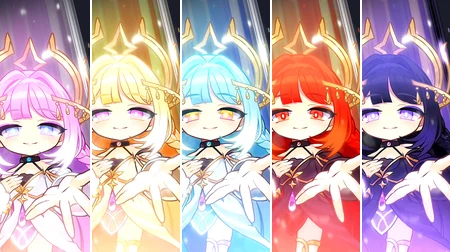
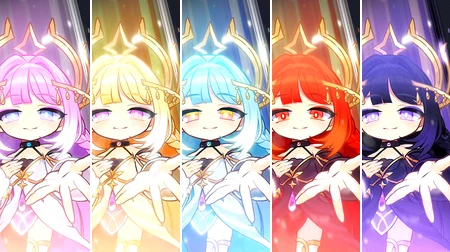
Shop: cheaper prices, an "Are you sure?" popup with the item's picture, and cleaner Helia pictures
Helia bundle 2,000, backgrounds 2,500, the moving background 5,000. Buying now asks first (green
Yes, red No, Esc or outside = No). The pink Helia lines up with the others in the bundle picture,
and the Win Effect pictures are see-through instead of on a dark box.

Claude-Session: https://claude.ai/code/session_01FmvgLsL6x8QsroXNAfcngk

diff --git a/fx.js b/fx.js
@@ -822,11 +822,11 @@ function openMeso(page = 1) {
 // adds it to your themes; buying an effect pack (effect: true) adds its win effects (see HECATE).
 const SHOP = {
   ...HOLIDAYS,   // holiday specials: in the shop only on their day
-  helia: { name: 'Sol Hecate: Helia', kind: 'Guess in 1 win effect (bundle)', price: 5000, always: true, effect: true,
+  helia: { name: 'Sol Hecate: Helia', kind: 'Guess in 1 win effect (bundle)', price: 2000, always: true, effect: true,
            img: 'images/fx/hecate/helia-bundle.webp' },
-  lucid: { name: 'Garden of Eternal Dream', kind: 'Moving background', price: 10000 },
-  lucidBloom: { name: 'Lucid in Bloom', kind: 'Background', price: 5000 },
-  lucidNight: { name: "Lucid's Starry Night", kind: 'Background', price: 5000 },
+  lucid: { name: 'Garden of Eternal Dream', kind: 'Moving background', price: 5000 },
+  lucidBloom: { name: 'Lucid in Bloom', kind: 'Background', price: 2500 },
+  lucidNight: { name: "Lucid's Starry Night", kind: 'Background', price: 2500 },
 };
 const shopOwned = (t) => (SHOP[t]?.effect ? ownedEffects() : ownedThemes()).includes(t);
 const SHOP_KEY = 'mapleWordle:shop';   // items found so far
@@ -866,11 +866,31 @@ function tooPoor(btn, it) {
   swap(fmt(it.price - mesoTotal()), true);
   setTimeout(() => swap(fmt(it.price), false), 2150);
 }
-function buy(t, btn) {
+// "Are you sure?" before buying: the item's picture, name and price, a green Yes and a red No (Esc / outside = No).
+function askBuy(t) {
+  const it = SHOP[t];
+  return new Promise((done) => {
+    const win = document.createElement('div');
+    win.className = 'popup buyask';
+    win.innerHTML = '<div class="panel"><h2>Are you sure you want to purchase?</h2>' +
+      `<span class="themepic" style="background-image:url('${it.img ?? THEME_IMG[t]}')"></span><b class="buyname">${it.name}</b>` +
+      `<span class="price"><img src="images/fx/meso-gold.png" alt=""> <span>${fmt(it.price)}</span></span>` +
+      '<p class="buybtns"><button class="yes">Yes</button><button class="no">No</button></p></div>';
+    const close = (ok) => { win.remove(); removeEventListener('keydown', esc, true); done(ok); };
+    const esc = (e) => { if (e.key === 'Escape') { e.stopImmediatePropagation(); close(false); } };   // only this popup, the shop stays open
+    win.querySelector('.yes').addEventListener('click', () => close(true));
+    win.querySelector('.no').addEventListener('click', () => close(false));
+    win.addEventListener('click', (e) => { if (e.target === win) close(false); });
+    addEventListener('keydown', esc, true);
+    document.body.appendChild(win);
+    win.querySelector('.yes').focus();
+  });
+}
+async function buy(t, btn) {
   const it = SHOP[t];
   if (!it || shopOwned(t)) return;
   if (mesoTotal() < it.price) return btn && tooPoor(btn, it);
-  if (!confirm(`Buy ${it.name} for ${fmt(it.price)} mesos?`)) return;
+  if (!await askBuy(t) || shopOwned(t) || mesoTotal() < it.price) return;
   const log = mesoLog();
   log.push({ key: `shop:${t}`, mode: 'shop', day: Math.floor(Date.now() / 86400000), what: `Bought ${it.name}`, amount: -it.price });
   lsSet(MESO_LOG_KEY, JSON.stringify(log));

diff --git a/style.css b/style.css
@@ -382,6 +382,20 @@ body.glitch .game.glow.diamond { animation: glitchslice 2.3s steps(1) infinite, 
 .popup[hidden] { display: none; }
 .popup .panel { margin-top: 48px; max-height: calc(100vh - 96px); overflow-y: auto; min-width: 280px; scrollbar-width: none; }
 .popup .panel::-webkit-scrollbar { display: none; }
+/* Shop: "Are you sure you want to purchase?" (fx.js askBuy), over the shop window */
+.popup.buyask { z-index: 5; align-items: center; }
+.buyask .panel { margin-top: 0; display: flex; flex-direction: column; align-items: center; gap: 8px; max-width: 340px; }
+.buyask h2 { font-size: 20px; margin: 0 0 4px; }
+.buyask .themepic { width: 224px; height: 126px; border: 1px solid rgba(0, 0, 0, 0.2); }
+.buyask .buyname { font-size: 17px; }
+.buyask .price { display: flex; align-items: center; gap: 5px; font-weight: 700; font-size: 17px; color: #8a6000; }
+.buyask .price img { width: 20px; height: 20px; image-rendering: pixelated; }
+.buybtns { display: flex; gap: 12px; margin: 6px 0 2px; }
+.buybtns button { font-family: inherit; font-size: 16px; font-weight: 700; min-width: 96px; padding: 7px 18px; border-radius: 8px;
+                  cursor: pointer; color: #fff; border: 1px solid rgba(0, 0, 0, 0.25); transition: transform 0.15s ease, filter 0.15s ease; }
+.buybtns .yes { background: #2fa84f; }
+.buybtns .no { background: #d9443b; }
+.buybtns button:hover { transform: translateY(-2px) scale(1.05); filter: brightness(1.08); }
 .popupbody { width: min(440px, calc(100vw - 96px)); text-align: left; }
 .popupbody h3 { margin: 14px 0 4px; }
 .popupbody h3 small { font-weight: normal; opacity: 0.7; }

diff --git a/animation.html b/animation.html
@@ -5,7 +5,7 @@
 <meta name="viewport" content="width=device-width, initial-scale=1">
 <title>Maple Wordle - Attack Animation</title>
 <script src="move.js?v=1"></script>
-<link rel="stylesheet" href="style.css?v=100">
+<link rel="stylesheet" href="style.css?v=101">
 </head>
 <body>
 <button id="archiveBtn" class="panel">Archive</button>
@@ -96,7 +96,7 @@
     <p class="closebar"><button id="changelogClose">Close</button></p>
   </div>
 </div>
-<script src="fx.js?v=71"></script>
+<script src="fx.js?v=72"></script>
 <script src="archive.js?v=6"></script>
 <script src="animation.js?v=30"></script>
 </body>

diff --git a/class.html b/class.html
@@ -5,7 +5,7 @@
 <meta name="viewport" content="width=device-width, initial-scale=1">
 <title>Maple Wordle - Guess the Class</title>
 <script src="move.js?v=1"></script>
-<link rel="stylesheet" href="style.css?v=100">
+<link rel="stylesheet" href="style.css?v=101">
 </head>
 <body>
 <button id="archiveBtn" class="panel">Archive</button>
@@ -79,7 +79,7 @@
     <p class="closebar"><button id="changelogClose">Close</button></p>
   </div>
 </div>
-<script src="fx.js?v=71"></script>
+<script src="fx.js?v=72"></script>
 <script src="archive.js?v=6"></script>
 <script src="class.js?v=26"></script>
 </body>

diff --git a/bgm.html b/bgm.html
@@ -5,7 +5,7 @@
 <meta name="viewport" content="width=device-width, initial-scale=1">
 <title>Maple Wordle - BGM Clip</title>
 <script src="move.js?v=1"></script>
-<link rel="stylesheet" href="style.css?v=100">
+<link rel="stylesheet" href="style.css?v=101">
 </head>
 <body>
 <button id="archiveBtn" class="panel">Archive</button>
@@ -115,7 +115,7 @@
     <p class="closebar"><button id="changelogClose">Close</button></p>
   </div>
 </div>
-<script src="fx.js?v=71"></script>
+<script src="fx.js?v=72"></script>
 <script src="archive.js?v=6"></script>
 <script src="bgm.js?v=43"></script>
 </body>

diff --git a/index.html b/index.html
@@ -5,7 +5,7 @@
 <meta name="viewport" content="width=device-width, initial-scale=1">
 <title>Maple Wordle</title>
 <script src="move.js?v=1"></script>
-<link rel="stylesheet" href="style.css?v=100">
+<link rel="stylesheet" href="style.css?v=101">
 </head>
 <body>
 <button id="archiveBtn" class="panel">Archive</button>
@@ -89,7 +89,7 @@
     <p class="closebar"><button id="changelogClose">Close</button></p>
   </div>
 </div>
-<script src="fx.js?v=71"></script>
+<script src="fx.js?v=72"></script>
 <script src="archive.js?v=6"></script>
 <script src="script.js?v=65"></script>
 </body>
